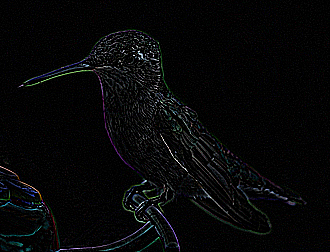
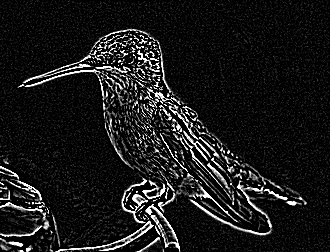
Updated docs, and move examples from transform guide to effect [ci skip]

diff --git a/wand/image.py b/wand/image.py
@@ -7492,7 +7492,8 @@ class BaseImage(Resource):
 
     @manipulative
     @trap_exception
-    def unsharp_mask(self, radius, sigma, amount, threshold, channel=None):
+    def unsharp_mask(self, radius=0.0, sigma=1.0, amount=1.0, threshold=0.0,
+                     channel=None):
         """Sharpens the image using unsharp mask filter. We convolve the image
         with a Gaussian operator of the given ``radius`` and standard deviation
         (``sigma``). For reasonable results, ``radius`` should be larger than
@@ -7518,6 +7519,9 @@ class BaseImage(Resource):
 
         .. versionchanged:: 0.5.5
            Added optional ``channel`` argument.
+
+        .. versionchanged:: 0.5.7
+           Added default values to match CLI behavior.
         """
         assertions.assert_real(radius=radius, sigma=sigma,
                                amount=amount, threshold=threshold)

diff --git a/docs/guide/effect.rst b/docs/guide/effect.rst
@@ -210,6 +210,7 @@ color-channel.
     from wand.image import Image
 
     with Image(filename="hummingbird.jpg") as img:
+        img.transform_colorspace('gray')
         img.edge(1)
         img.save(filename="effect-edge.jpg")
 
@@ -236,6 +237,7 @@ best results can be generated with grayscale image. Also see :ref:`shade`.
     from wand.image import Image
 
     with Image(filename="hummingbird.jpg") as img:
+        img.transform_colorspace('gray')
         img.emboss(radius=3.0, sigma=1.75)
         img.save(filename="effect-emboss.jpg")
 
@@ -275,6 +277,36 @@ to reduce noise in an image, but also preserves edges.
 | .. image:: ../_images/hummingbird.jpg | .. image:: ../_images/effect-kuwahara.jpg |
 |    :alt: Original                     |    :alt: Kuwahara                         |
 +---------------------------------------+-------------------------------------------+
+
+
+.. _shade:
+
+Shade
+-----
+
+.. versionadded:: 0.5.0
+
+Creates a 3D effect by simulating light from source where ``aziumth`` controls
+the X/Y angle, and ``elevation`` controls the Z angle. You can also determine
+of the resulting image should be transformed to grayscale by passing ``gray``
+boolean.
+
+.. code-block:: python
+
+    from wand.image import Image
+
+    with Image(filename="hummingbird.jpg") as img:
+        img.shade(gray=True,
+                  azimuth=286.0,
+                  elevation=45.0)
+        img.save(filename="effect-shade.jpg")
+
++---------------------------------------+----------------------------------------+
+| Original                              | Shade                                  |
++---------------------------------------+----------------------------------------+
+| .. image:: ../_images/hummingbird.jpg | .. image:: ../_images/effect-shade.jpg |
+|    :alt: Original                     |    :alt: Shade                         |
++---------------------------------------+----------------------------------------+
 
 
 .. _sharpen:
@@ -335,3 +367,59 @@ the feathers, and limited  changes in the out-of-focus background.
 |    :alt: Original                     |    :alt: Adaptive Sharpen                         |
 +---------------------------------------+---------------------------------------------------+
 
+
+.. _unsharpen_mask:
+
+Unsharp Mask
+''''''''''''
+
+.. versionadded:: 0.3.4
+
+Identical to :meth:`Image.sharpen <wand.image.BaseImage.sharpen>` method,
+but gives users the control to blend between filter & original (``amount``
+parameter), and the ``threshold``. When the ``amount`` value is greater than
+``1.0`` more if the sharpen filter is applied, and less if the value is under
+``1.0``. Values for ``threshold`` over ``0.0`` reduce the sharpens.
+
+.. code-block:: python
+
+    with Image(filename="hummingbird.jpg") as img:
+        img.unsharp_mask(radius=10,
+                         sigma=4,
+                         amount=1,
+                         threshold=0)
+        img.save(filename="effect-unsharp-mask.jpg")
+
++---------------------------------------+-----------------------------------------------+
+| Original                              | Unsharp Mask                                  |
++---------------------------------------+-----------------------------------------------+
+| .. image:: ../_images/hummingbird.jpg | .. image:: ../_images/effect-unsharp-mask.jpg |
+|    :alt: Original                     |    :alt: Unsharp Mask                         |
++---------------------------------------+-----------------------------------------------+
+
+
+.. _spread:
+
+Spread
+------
+
+.. versionadded:: 0.5.3
+
+Spread replaces each pixel with the a random pixel value found near by. The
+size of the area to search for a new pixel can be controlled by defining a
+radius.
+
+.. code-block:: python
+
+    from wand.image import Image
+
+    with Image(filename="hummingbird.jpg") as img:
+        img.spread(8.0)
+        img.save(filename="effect-spread.jpg")
+
++---------------------------------------+-----------------------------------------+
+| Original                              | Spread                                  |
++---------------------------------------+-----------------------------------------+
+| .. image:: ../_images/hummingbird.jpg | .. image:: ../_images/effect-spread.jpg |
+|    :alt: Original                     |    :alt: Spread                         |
++---------------------------------------+-----------------------------------------+

diff --git a/docs/guide/transform.rst b/docs/guide/transform.rst
@@ -218,35 +218,6 @@ The generated image :file:`transform-rotated-135.jpg` looks like:
    :alt: transform-rotated-135.jpg
 
 
-.. _shade:
-
-Shade
------
-
-.. versionadded:: 0.5.0
-
-Creates a 3D effect by simulating light from source where ``aziumth`` controls
-the X/Y angle, and ``elevation`` controls the Z angle. You can also determine
-of the resulting image should be transformed to grayscale by passing ``gray``
-boolean.
-
-.. code::
-
-    from wand.image import Image
-
-    with Image(filename="hummingbird.jpg") as left:
-        with left.clone() as right:
-            right.shade(gray=True,
-                        azimuth=286.0,
-                        elevation=45.0)
-            left.extent(width=left.width*2)
-            left.composite(right, top=0, left=right.width)
-        left.save(filename="hummingbird-shade.jpg")
-
-.. image:: ../_images/hummingbird-shade.jpg
-     :alt: Hummingbird - Shade
-
-
 .. _sketch:
 
 Sketch
@@ -271,31 +242,6 @@ Simulates an artist sketch drawing. Also see :ref:`charcoal`.
 .. image:: ../_images/hummingbird-sketch.jpg
      :alt: Hummingbird - Sketch
 
-
-.. _spread:
-
-Spread
-------
-
-.. versionadded:: 0.5.3
-
-Spread replaces each pixel with the a random pixel value found near by. The
-size of the area to search for a new pixel can be controlled by defining a
-radius.
-
-.. code::
-
-    from wand.image import Image
-
-    with Image(filename="hummingbird.jpg") as left:
-        with left.clone() as right:
-            right.spread(8.0)
-            left.extent(width=left.width*2)
-            left.composite(right, top=0, left=right.width)
-        left.save(filename="hummingbird-spread.jpg")
-
-.. image:: ../_images/hummingbird-spread.jpg
-     :alt: Hummingbird - Spread
 
 .. _statistic:
 
